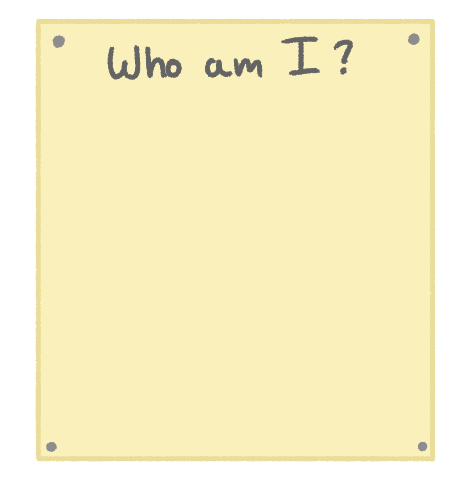
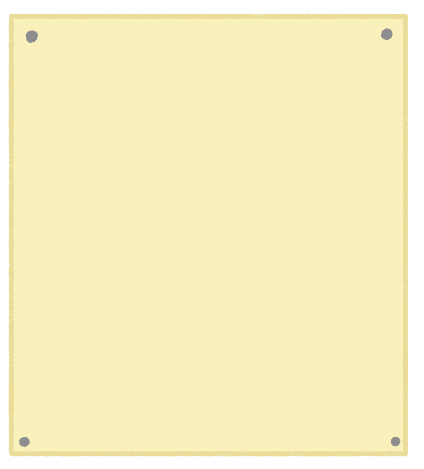
02/04/26 FINSIHED PROJECT 1
-updated about poster
-updated readme

Changed region(s): [[0.0, 0.0299, 0.9811, 0.9851], [0.2146, 0.0896, 0.3986, 0.1791], [0.4292, 0.1194, 0.5825, 0.1791]]

diff --git a/styles.css b/styles.css
@@ -64,6 +64,59 @@
   color: #000000af;
 }
 
+.aboutTitle{
+  position: static;
+  width: 37vw;
+  translate: -9vw 0.7vw;
+  font-size: 3.5vw;
+  font-family: "Pixelify Sans", sans-serif;
+  font-weight: 50px;
+  color: #000000c7;
+}
+
+.aboutName{
+  position: static;
+  width: 37vw;
+  translate: -18vw 1.5vw;
+  font-size: 2.5vw;
+  font-family: "Pixelify Sans", sans-serif;
+  font-weight: 50px;
+  color: #000000af;
+}
+
+.aboutText{
+  position: static;
+  width: 36vw;
+  translate: -18vw 2vw;
+  padding-bottom: 1vw;
+  font-size: 2vw;
+  font-family: "Pixelify Sans", sans-serif;
+  font-weight: 50px;
+  color: #000000af;
+}
+
+.aboutContact{
+  position: static;
+  width: 36vw;
+  translate: -18vw 2vw;
+  padding-bottom: 0.2vw;
+  font-size: 2vw;
+  font-family: "Pixelify Sans", sans-serif;
+  font-weight: 50px;
+  color: #000000af;
+}
+
+.indexText{
+  position: static;
+  width: 10vw;
+  translate: -17vw 7vw;
+  line-height: 2vw;
+  font-size: 2.3vw;
+  font-family: "Pixelify Sans", sans-serif;
+  font-weight: 50px;
+  color: #000000af;
+}
+
 #navigationTitle{
   transform: rotate(2deg);
   position: static;

diff --git a/about.html b/about.html
@@ -163,8 +163,8 @@
 
      /* draw image this last */
     #poster {
-      width: 45vw;
-      translate: -22.5vw -2vw;
+      width: 42vw;
+      translate: -21vw -2.5vw;
     }
 
     /* #page-frame {
@@ -429,6 +429,13 @@
    <div class="copyright">  &copy; <span id="year"></span> </div>
    <div class="name"> Anouk Froitzheim </div>
 
+   <div class="aboutTitle"> About Me! </div>
+   <div class="aboutName"> Anouk Froitzheim - They/Them </div>
+   <div class="aboutText"> I am a passionate gremlin who is currently studying to become a masterful designer at university. I strive to acquire many skills in order to successfully slay whatever battle I may be flung into. </div>
+   <div class="aboutText"> If you'd like to know more about me take a looksie around my cool website</div>
+   <div class="aboutContact"> Where to contact me  </div>
+   <div class="aboutContact"> Email: MadeUpEmail@gmail.com</div>
+   <div class="aboutContact"> Phone: 0123456789</div>
   </div>
 <script>
   // =============================================

diff --git a/index.html b/index.html
@@ -154,7 +154,7 @@
     }
 
     #poster {
-      width: 24vw;
+      width: 22vw;
       translate: -19.5vw 6.2vw;
     }
 
@@ -429,6 +429,8 @@
 
    <!-- disclaimer text  -->
    <div class="disclaimerHome"> This website is best viewed on laptop/PC in full screen mode </div>
+
+   <div class="indexText"> ~~~~~~~~~~~ ~~~~~~~~~~~~ ~~~~~~~ ~~~~~~~~~~~ ~~~~~~~~ ~~~~~~~~~~~~~ ~~~~~~~~~~~~~ ~~~~~~~~~~~ ~~~~~~~~ ~~~~~~~~~~ ~~~~~ </div>
 
   </div>
 <script>

diff --git a/script.js b/script.js
@@ -17,7 +17,7 @@
       const now = new Date();
 
       const isDay = now >= sunrise && now <= sunset;
-
+      console.log(isDay);
    const el = document.getElementById("window-day");
    if (el) el.style.opacity = isDay ? 1 : 0;
 

diff --git a/README.md b/README.md
@@ -18,6 +18,10 @@ im using Calude AI (sonnet 4.6) to help me code things that I dont have the skil
     I used Claude AI to create a 'base layer' which i can use to insert and position images that I have drawn by hand. This is the only thing the AI helped me make and took about 5min. The rest I did today all by myself with help from websites (e.g. https://developer.mozilla.org/en-US/docs/Web/HTML/Reference/Elements). Im very happy and proud with what ive done in the past 2 days and how much of it I did myself. I understand pretty much all the code (especially the stuff I have been changing) which im very pleased with.
     The 'workflow' of using AI to get a start when not knowing how to due to not having the skills is actually quite useful as you can use it to also learn how to do it and then do it yourself in the future. In a way its similar to googling how to do it and pasting in a piece of code someone else did and using it to build your own. This works a lot better for me than the last project where I was 'fully' relying on AI to build my project. I think a big help in that is choosing a simpler project because realistically I have the knowledge to do it all myself with slow janky code but i can use the AI to help speed up certain parts or help understand things I dont know.
     Overall im happy! maybe mainly because I got to do things myself rather than using the AI. 
+    02-04-26
+    Very happy with the turn out of the project. I am very glad that I made the decision to restart as my new approach was may more aligned with my goals for the project and I managed to create a Website I would actually use. 
+    I did sadly run out of time and wasnt able to add all the other cool things but maybe I will do that outside of the project. 
+    Im still on the fence and hesitant about AI but i am not as against it as before depending on how it is used
 
 
 # references:
@@ -236,8 +240,7 @@ opinion:
 
 **-disclaimer text**
     -added a text to home page in the top left of the screen letting users know that the website is best viewed on laptop/PC on full screen. I made it a slightly transparent black so that it would be noticeable enough but not distracting from the overall page. The text is placed in a 'text box' so that it wraps so that it never covers the frame and always stays on the green in order to keep the text easy to read. (it overlaps when the window is made very very thin in width but very tall in height but this is a very unlikely screen size so shouldnt be a problem)
-    colour of text is not up to 'accessability' standards. It would have to be fully black to meet them but that would make them stand out more and not align with design goals. Therefore this text is also written in the 'menu' text in full black. ---------------
------------------------------
+    colour of text is not up to 'accessability' standards. It would have to be fully black to meet them but that would make them stand out more and not align with design goals. Therefore this text is also written in the 'menu' text in full black. 
     Additionally, the text is not vital and the user can this experience the website without seeing/ reading it.
     ![alt text](read_me-images/disclaimer.png)
 
@@ -322,3 +325,6 @@ all the final code made with AI and some of my own trouble shooting
 
 **-Menu Page**
 Page to which the menu buttons goes. 
+-has navigation menu
+-disclaimer from home page about best viewing on laptop/desktop
+-AI use information
